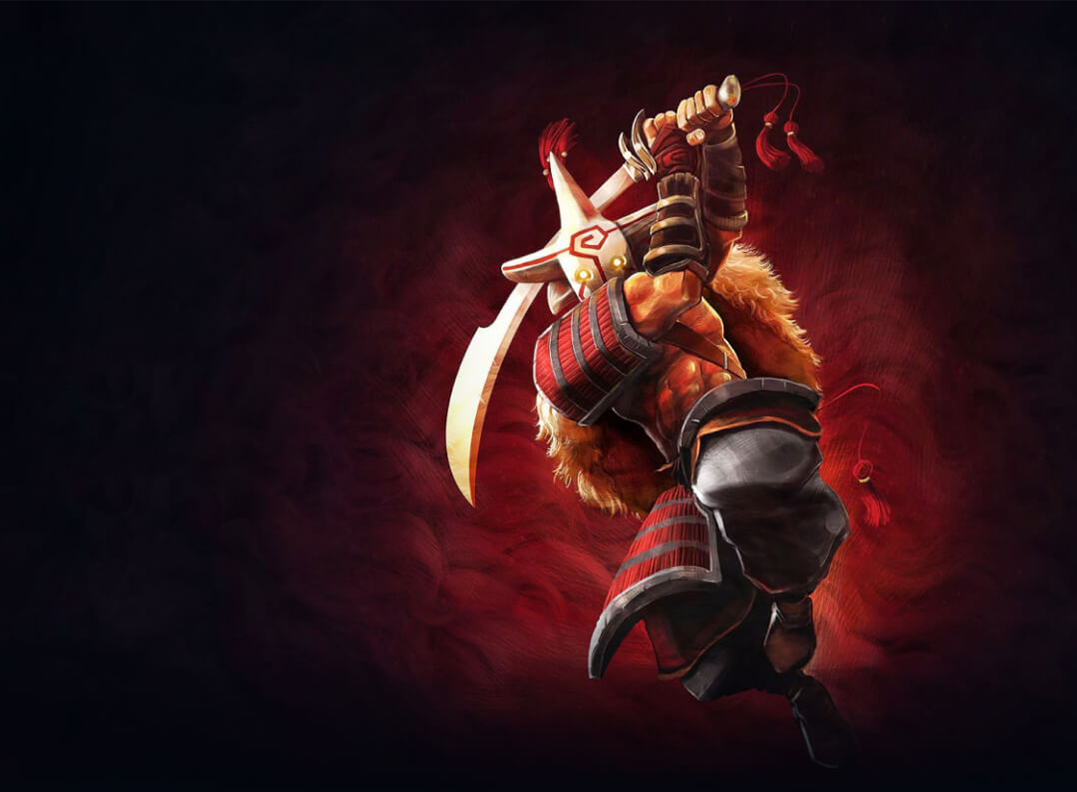
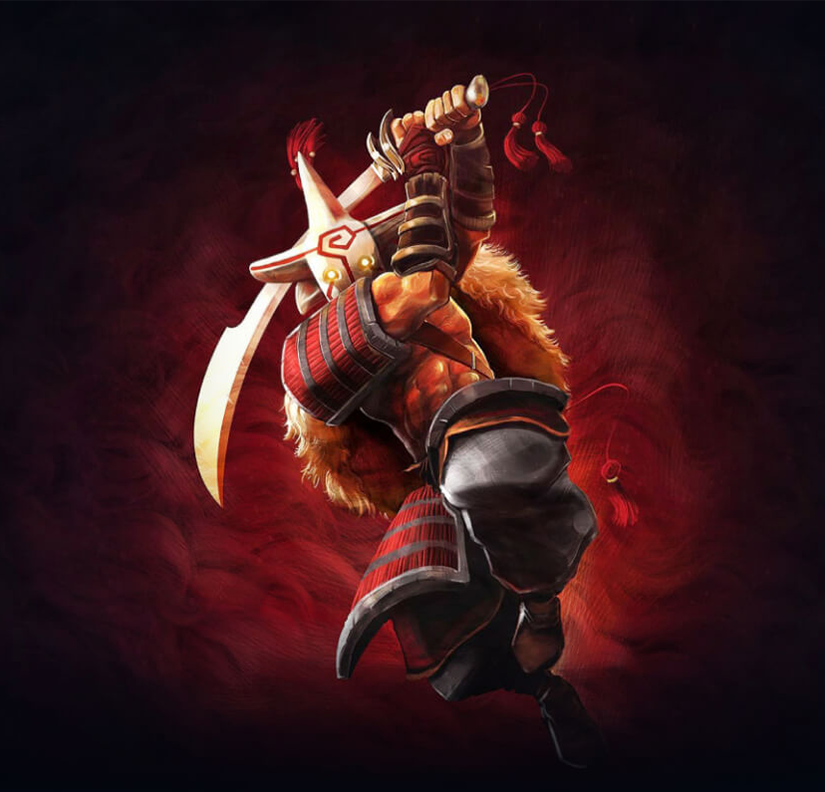
message

diff --git a/index.html b/index.html
@@ -68,15 +68,13 @@
                 </div>
             </div>
         </nav>
-
-    </section>
-    <section class="section_1 pt-lg-5 pt-5 mt-lg-5 mt-2  ">
-        <!-- pt-lg-5 pt-5 mt-lg-5 mt-2 -->
+        
+            <section class="section_1 pt-lg-5 pt-5 mt-lg-5 mt-2  ">
         <div class="container">
             <div class="row">
                 <div class="col-lg-6">
                     <p class="fs_small text-white pb-1 text-lg-start text-center"> Lorem ipsum is dummy text</p>
-                    <h1 class="text-white Syne large_heading text-lg-start text-center">
+                    <h1 class="text-white Syne large_heading text-lg-start text-center" style="letter-spacing: 3px;">
                         Lorem Ipsum is <br>
                         simply dummy <br>
                         text of print
@@ -86,16 +84,23 @@
                     </div>
 
                 </div>
-                <div class="col-lg-6 bg_123">
-                    <div class="d-flex justify-content-start">
+                <div class="col-lg-6 col-0">
+                    <!-- <div class="d-flex justify-content-start">
                         <img src="assets/img/banner_img.png" class="img-fluid" alt="">
 
-                    </div>
+                    </div> -->
                 </div>
             </div>
         </div>
+ 
 
     </section>
+    </section>
+    <!-- <section class="section_1 pt-lg-5 pt-5 mt-lg-5 mt-2  ">
+        
+ 
+
+    </section> -->
     <section class="section2 mt-5 mb-3">
         <div class="container">
             <div class="d-flex justify-content-lg-between justify-content-center flex-wrap">

diff --git a/assets/css/style.css b/assets/css/style.css
@@ -12,6 +12,11 @@ body{
 .RocGrotesk{
     font-family: RocGrotesk;
 }
+.Navbar_1{
+    background-image: url(../img/Banner.png);
+    background-size: 100% 100%;
+    height: 90vh;
+}
 .Syne{
     font-family: Syne;
 }
@@ -24,7 +29,7 @@ body{
 }
 
 .large_heading{
-    font-size: 45px;
+    font-size: 50px;
     font-weight: 700;
 }
 .danger2{
@@ -77,5 +82,10 @@ body{
     .img_small{
         width: 25px!important;
     }
-    
+    .Navbar_1{
+        background-image: url(../img/banner_img.png);
+        background-size: 100% 100%;
+        background-position: center;
+        height: 90vh;
+    }
 }
